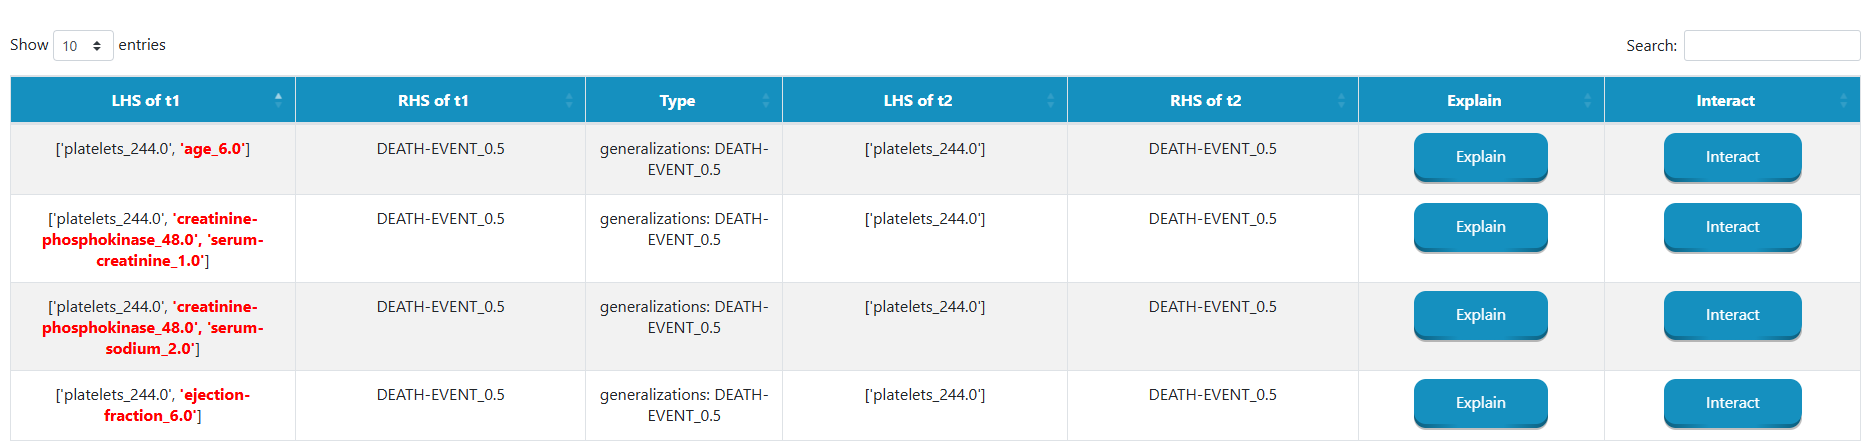
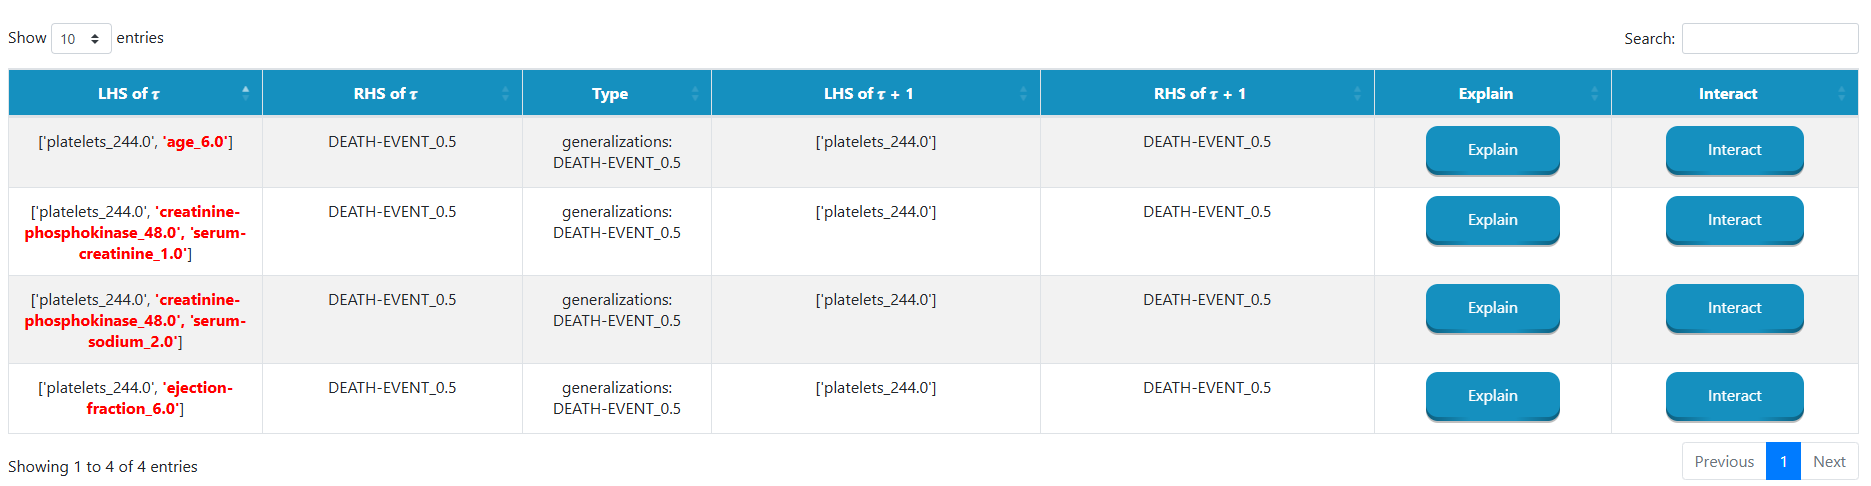
Updated Tutorial

diff --git a/templates/index.html b/templates/index.html
@@ -376,10 +376,7 @@
       <b>𝜏 + 1</b> is related to 𝜙, while the last two contains
       the attributes on the LHS and the RHS of an rfd
       validated at time <b>𝜏 + 1</b>. When displaying a specialized dependency, the additional attributes are highlighted in green, whereas when displayng 
-      a generalized dependency, the removed attributes are highlighted in red (<b>Figure 6</b>).
-      Each row of the table is also associated with a button "Explain" that allows users to read
-      the explanation related to the rfds under analysis, and with a button "Interact" that allows to manually modify a pre-compiled prompt to interact with an LLM.  
-    </li>
+      a generalized dependency, the removed attributes are highlighted in red (<b>Figure 6</b>). As regards the notation, each attribute and the corresponding threshold are written as follows: <b>AttributeName_threshold</b>, were the _ indicates the &le; constraint.       </li>
   </ul>
   <div class="slideshow-container">
     <!-- Slides -->
@@ -389,7 +386,7 @@
   </div>
   <!-- Caption container -->
   <div class="caption-container">
-    <div class="caption"> Figure 5: RFD tree navigation (2). By clicking on one of the RHS, RYAN will display the LHS of all the dependencies that have the selected RHS in the selected category.
+    <div class="caption"> Figure 5: Comparative Datatable. After fully expanding a node in the RFD tree, the datatable will display the dependencies belonging to that node. If the selected dependency is a specialization or a generalization of a previous RFD discovered before data updates, the table will display the original dependency on the same row.
     </div>
   </div>
   <br>
@@ -401,10 +398,40 @@
   </div>
   <!-- Caption container -->
   <div class="caption-container">
-    <div class="caption"> Figure 6: RFD tree navigation (2). By clicking on one of the RHS, RYAN will display the LHS of all the dependencies that have the selected RHS in the selected category.
-    </div>
+    <div class="caption"> Figure 6: The comparative datatable for generalized RFDs.
+  </div>
   </div>
   <br>
+  <p id="tutorial-instructions">In case of an RFD that is a specialization or a generalization of an RFD discovered before data updates, the user can 
+    click on the EXPLAIN button displayed in the associated row of the datatable. This function allows to provide an explanation of why the RFD evolved by analyzing the data updates occurred.
+    RYAN will compile a prompt containing the relevat information necessary to explain the evolution and will provide it to an LLM. Once ready, the answer will be shown to the user in a new window (<b>see Figure 7</b>).
+  </p>
+  <div class="slideshow-container">
+    <!-- Slides -->
+    <div class="mySlides">
+        <img src="/static/Images/Explain.PNG" style="width:100%">
+    </div>
+  </div>
+  <!-- Caption container -->
+  <div class="caption-container">
+    <div class="caption"> Figure 7: The Explain feature of RYAN.
+  </div>
+  </div>
+  <br>
+  <p id="tutorial-instructions">In addition, the datatable provides also the <b>INTERACT feature</b>. By clicking on the associated button, a new window containing the compiled prompt will be displayed. Here, the user 
+    can customize the prompt, or ask for additional questions. Once the customized prompt is ready, the user can click on the <b>Ask</b> button and wait for the answer. 
+  </p>
+  <div class="slideshow-container">
+    <!-- Slides -->
+    <div class="mySlides">
+        <img src="/static/Images/Interact.PNG" style="width:100%">
+    </div>
+  </div>
+  <!-- Caption container -->
+  <div class="caption-container">
+    <div class="caption"> Figure 8: The Interact feature of RYAN.
+  </div>
+  </div>
   </p>
 
 
@@ -413,11 +440,12 @@
   <h3>Task Description</h3>
   <p id="tutorial-instructions">In this experiment, you will be asked to upload a dataset and a file of RFD discovery results, and then identify a particular RFD belonging to the ‘Specialized’ or ‘Generalized’ category. You will then need to expand the RFD tree by selecting the correct category, and then the RHS of interest. At this point, in the comparative datatable, search for the target dependency and click on the Explain button to get an explanation of why that dependency evolved. </p>
   <p id="objective-text"></p>
+  <p id="tutorial-instructions">If you are ready, you can click on the button below to start the experiment. Otherwise, you can ask for additional details! </p>
 </div>
-
-</div>
-
 <center><button id="start-button" role="button" style="font-size: 0.7em; background-color: #2cd200; color: white;"><span>Start!</span></button></center>
+
+</div>
+
 
 </div>
 </div>
@@ -428,11 +456,11 @@
   <table id="risultati" class="table table-striped table-bordered" style="width:100%">
       <thead>
       <tr>
-          <th>LHS of t1</th>
-          <th>RHS of t1</th>
+          <th>LHS of 𝜏 </th>
+          <th>RHS of 𝜏</th>
           <th>Type</th>
-          <th>LHS of t2</th>
-          <th>RHS of t2</th>
+          <th>LHS of 𝜏 + 1</th>
+          <th>RHS of 𝜏 + 1</th>
           <th>Explain</th>
           <th>Interact</th>
 
@@ -451,15 +479,15 @@
     const tutorialButton = document.getElementById('tutorial-button');
     const tutorialOverlay = document.getElementById('tutorial-overlay');
     const closeBtn = document.getElementById('close-btn');
-    const closeBtn2 = document.getElementById('start.button');
+    const closeBtn2 = document.getElementById('start-button');
     const objectiveText = document.getElementById('objective-text');
 
 
     // Array di obiettivi
     const objectives = [
         "Task 1: Upload the dataset 'test.csv' and the discovery results 'jsonForChart_test.csv'. Navigate the RFD tree by expanding the 'Specializations node'. Then, expand the node that contains all the RFDs with RHS 'serum-creatinine'. In the datatable, locate the RFD with LHS 'age,platelets,serum-sodium'. You have to understand why this specialized RFD has been discovered instead of the original one. Thus, click on the explain button and wait for the model's answer. Once ready, read carefully the explanation. ",
-        "Task 2: ",
-        "Task 3:"
+        "Task 2: ['platelets_244.0']	DEATH-EVENT_0.5",
+        "Task 3: altra generalizzazione"
     ];
 
     // Genera un numero casuale all'interno del range dell'array

diff --git a/static/style.css b/static/style.css
@@ -538,6 +538,7 @@ b#strong-text-red {
 .caption-container {
   text-align: center;
   margin-top: 10px;  /* Spazio tra immagine e caption */
+  font-weight: bolder;
 }
 
 .caption {
